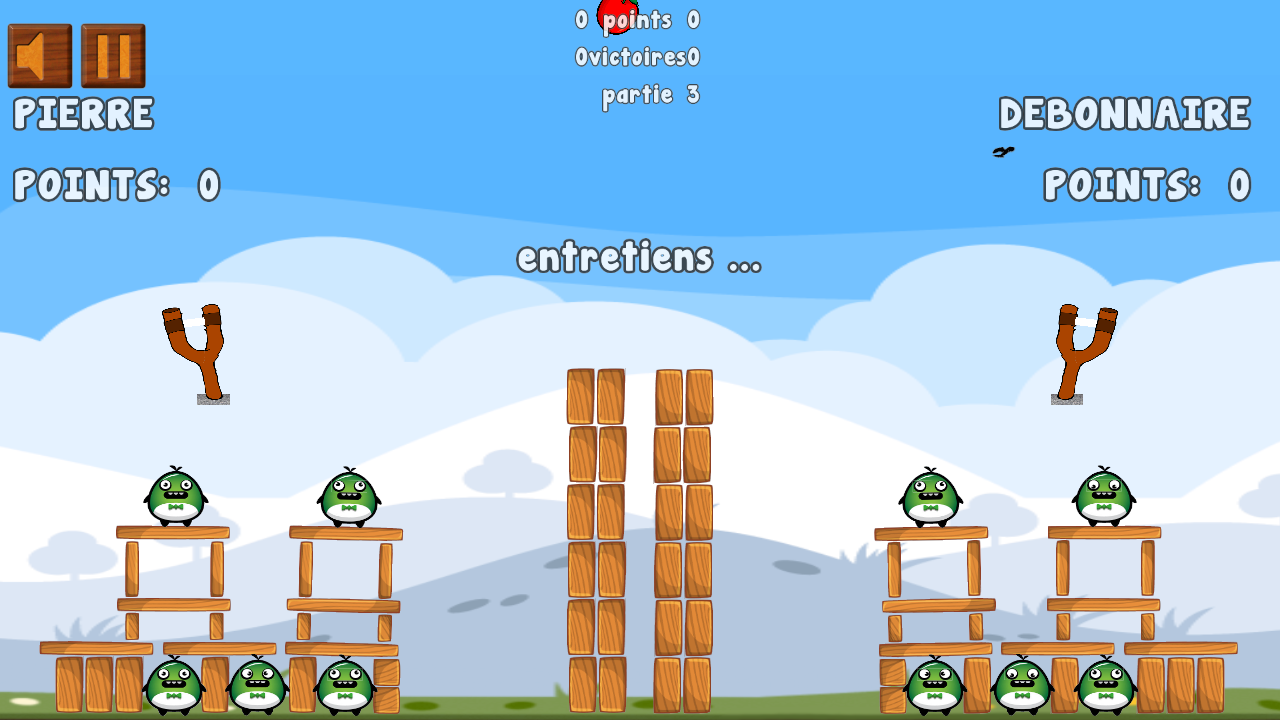
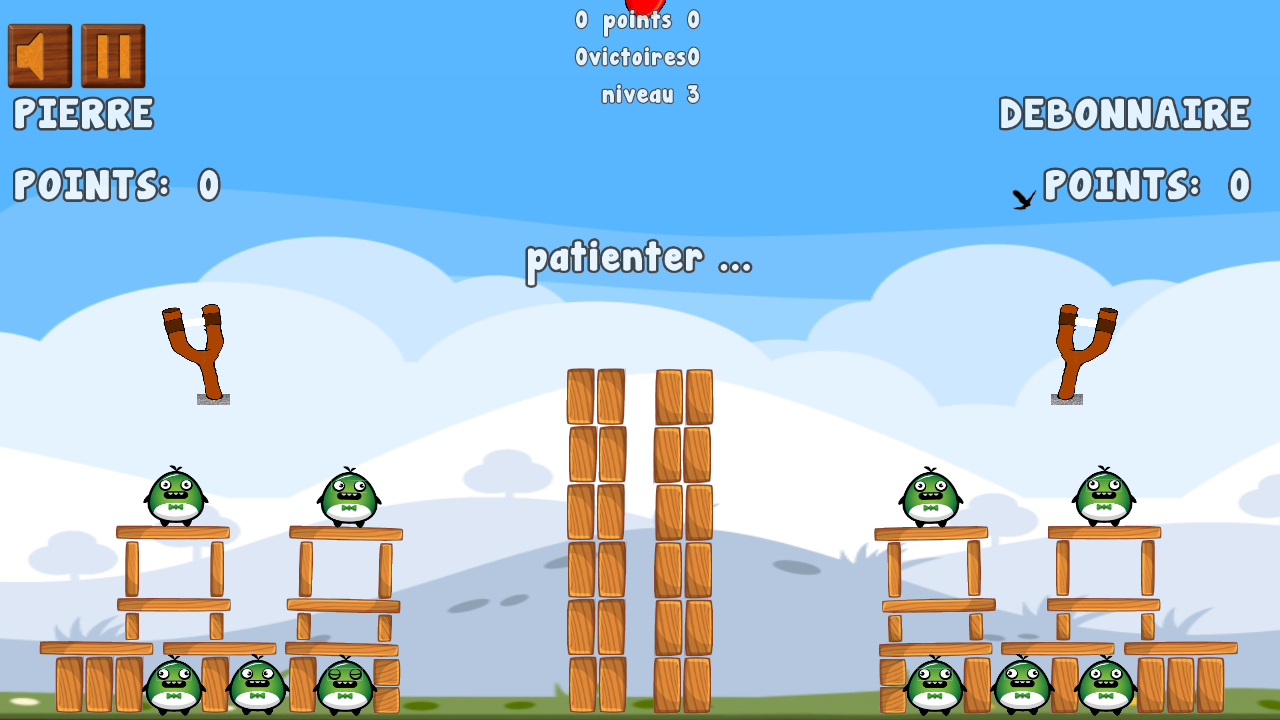
updated French screenshots with latest translation (this is final thing to do for the Screenshot Factory, so this Closes #24 )

diff --git a/tests/src-integration/com/gitlab/ardash/appleflinger/testing/integration/DesktopTestdriveTest.java b/tests/src-integration/com/gitlab/ardash/appleflinger/testing/integration/DesktopTestdriveTest.java
@@ -21,13 +21,10 @@ import java.util.concurrent.TimeUnit;
 
 import org.junit.BeforeClass;
 import org.junit.Test;
-import org.lwjgl.openal.AL;
-import org.lwjgl.util.vector.Matrix;
 
 import com.badlogic.gdx.Gdx;
 import com.badlogic.gdx.backends.lwjgl.LwjglApplication;
 import com.badlogic.gdx.backends.lwjgl.LwjglApplicationConfiguration;
-import com.badlogic.gdx.graphics.glutils.ShaderProgram;
 import com.gitlab.ardash.appleflinger.ActionResolver;
 import com.gitlab.ardash.appleflinger.AppleflingerGame;
 import com.gitlab.ardash.appleflinger.ai.PlayerSimulator;
@@ -42,7 +39,8 @@ import com.gitlab.ardash.appleflinger.screens.MissionSelectScreen;
 
 public class DesktopTestdriveTest implements ActionResolver{
 	
-	private static final String [] langs = {"de","en","es","fr"};
+	private static final String [] langs = {"fr"};
+	//private static final String [] langs = {"de","en","es","fr"};
 	//private static final String [] langs = {"ru"}; // separate non-latin load
 	private static final Mission [] missions = {Mission.M_1_1, Mission.M_1_3, Mission.M_1_4
 		,Mission.M_1_5, Mission.M_1_11, Mission.M_1_14};
